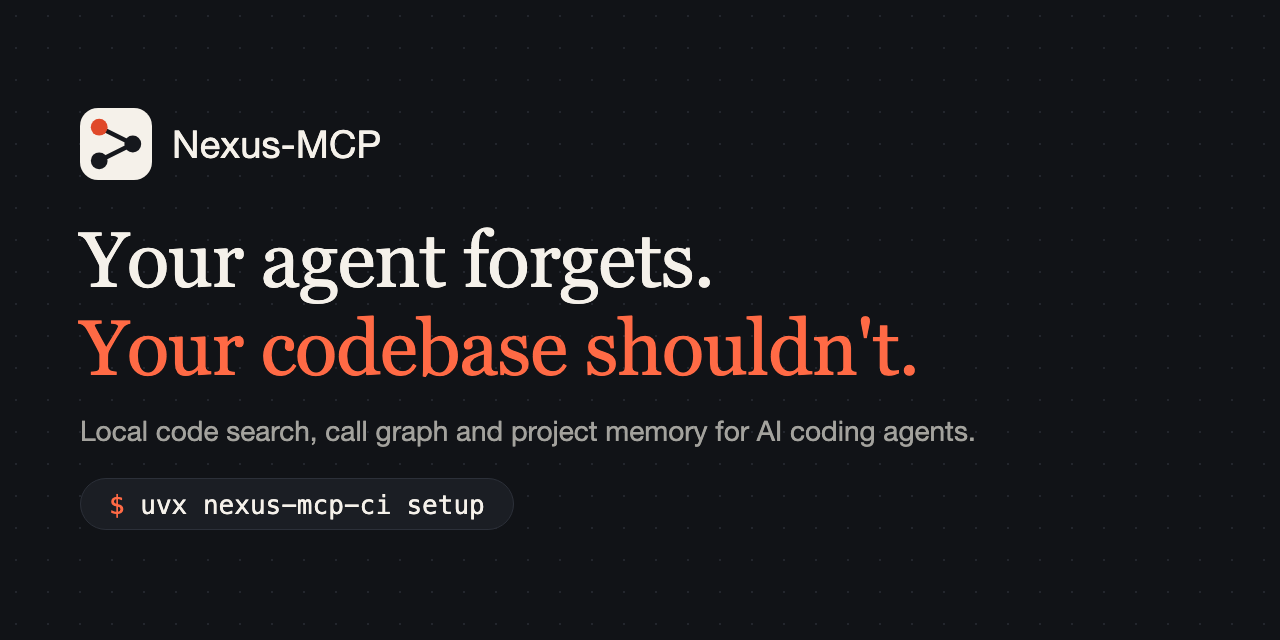
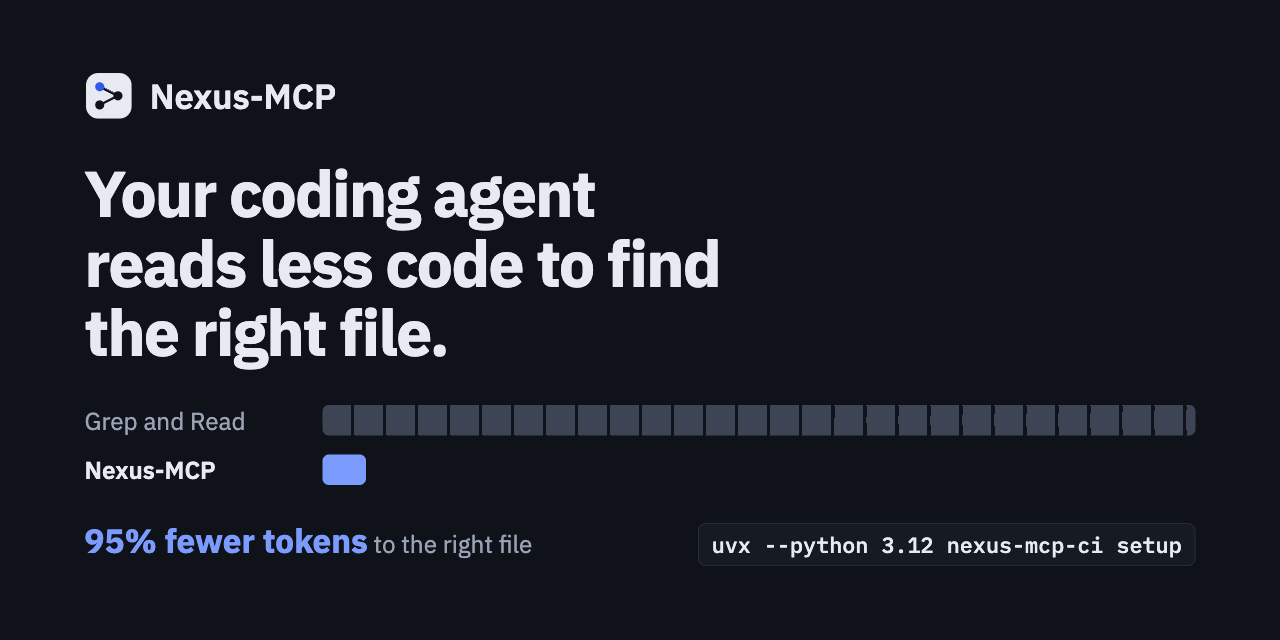
docs: one tagline everywhere
"Your coding agent reads less code to find the right file." replaces the
memory-first texts in the package description, the MCP Registry, Glama,
Context7, the Gemini, Claude Desktop, Claude Code and Cursor manifests,
CITATION.cff, llms.txt, llms-install.md and the submission texts.

The "27% to 49% fewer tokens" claim summed 18 runs; the README and the site
publish medians per task. Every listing now quotes the published numbers.
site/og.png and site/social-preview.png show the new tagline and the trace.

diff --git a/site/index.html b/site/index.html
@@ -16,7 +16,7 @@
   <meta property="og:image" content="https://jaggernaut007.github.io/nexus-mcp/og.png">
   <meta property="og:image:width" content="1200">
   <meta property="og:image:height" content="630">
-  <meta property="og:image:alt" content="Nexus-MCP logo and tagline">
+  <meta property="og:image:alt" content="Nexus-MCP: your coding agent reads less code to find the right file. 95% fewer tokens to the right file.">
   <meta name="twitter:card" content="summary_large_image">
   <meta name="twitter:title" content="Nexus-MCP: code search that cuts coding-agent tokens">
   <meta name="twitter:description" content="Your coding agent reads less code to find the right file. Local, no API keys, MIT.">

diff --git a/src/nexus_mcp/__init__.py b/src/nexus_mcp/__init__.py
@@ -1,3 +1,3 @@
-"""Nexus-MCP: Unified MCP server with hybrid search, code graph analysis, and semantic memory."""
+"""Nexus-MCP: local MCP server that cuts coding-agent tokens with hybrid search and a code graph."""
 
 __version__ = "2.4.5"

diff --git a/docs/SUBMISSIONS.md b/docs/SUBMISSIONS.md
@@ -22,17 +22,20 @@ GitHub release. Every `uvx` route runs `uvx --python 3.12 nexus-mcp-ci==2.4.5`. 
 | mcpservers.org | listed 2026-11-08: `https://mcpservers.org/servers/glama-ai-mcp-servers-jaggernaut007-nexus-mcp` |
 | mcp.so | skipped: a listing costs money |
 
-## One-line blurb
+## Tagline
 
-Local code search and call graph for AI coding agents, in 10 languages. Runs on your machine,
-needs no API key, and makes no network call of its own. MIT license.
+Your coding agent reads less code to find the right file.
+
+## One-line blurb (100 characters or less, as in `server.json`)
+
+Local code search for coding agents: find the right file with far fewer tokens.
 
 ## Short description (about 300 characters)
 
-Nexus-MCP is a local MCP server that gives an AI coding agent hybrid code search, a static call
-graph and the code of any symbol. The agent reads fewer files, so it uses fewer tokens. Call
-graphs for 10 languages. It runs on your machine. No API key and no telemetry. Install with one
-command: `uvx --python 3.12 nexus-mcp-ci setup`.
+Nexus-MCP is a local MCP server for coding agents. Hybrid code search and a call graph for 10
+languages give the agent the right code in one call, so it reads less: 95% fewer tokens to reach
+the right file (median of 10 open-source repos). No API key, no telemetry, MIT. Install:
+`uvx --python 3.12 nexus-mcp-ci setup`.
 
 ## What it does (for a longer form)
 
@@ -49,27 +52,23 @@ command: `uvx --python 3.12 nexus-mcp-ci setup`.
 - **Fresh index:** a file watcher reindexes after each edit. A new session attaches the last
   index by itself.
 
-## Results to quote (2.4.1)
+## Results to quote
 
-Live benchmark: Claude Code (`claude -p`), Claude Sonnet at medium effort, 6 tasks × 3 runs per
-project. Nexus-MCP is compared with the built-in Grep and Read tools. Source: `CHANGELOG.md`,
-section 2.4.1.
+Quote only the numbers of the README results block. It is generated from
+`benchmarks/published/results.json` (one row per repo, the latest run), so every listing says
+the same thing. Do not quote a sum of runs: the published numbers are medians per task.
 
-| Project | Tokens, sum of 18 runs | Cost | Correct answers |
-|---|---|---|---|
-| Home Assistant (about 26,000 Python files) | 49% fewer | 32% lower | 18 of 18 (Grep 17) |
-| Django | 27% fewer | 27% lower | 17 of 18 (Grep 16) |
-
-Release 2.4.0, median tokens per task: 25% fewer than Grep on Vite (TypeScript) and 26% fewer
-on webpack (JavaScript), with 6 of 6 correct on both.
+- 95% fewer tokens to reach the right file, median of 10 open-source repos in 10 languages
+  (offline check, no LLM).
+- About 9× faster search than Grep and Read, median.
+- Live Claude Code runs on 11 repos: cost per task lower on 8 of 11, with 64 of 66 tasks
+  correct against 61 of 66.
 
 Give these limits with the numbers:
-- The Grep totals change much from run to run, so the token gaps are less certain than the
-  accuracy results.
-- On Django, Nexus-MCP used fewer tokens on 2 of the 6 tasks. The win comes from the large
-  impact tasks.
-- The README results table is older (version 2.1.0). Do not mix its numbers with the numbers
-  above.
+- C (redis) and Rust (tokio) used more tokens per task than Grep and Read, on the older 2.2.2
+  build. Say so when you quote a live number.
+- The same code can vary by about 20% in cost with 3 runs per task.
+- Benchmarks page: https://jaggernaut007.github.io/nexus-mcp/benchmarks.html
 
 ## Links to give
 

diff --git a/docs/research/OSS-ADOPTION.md b/docs/research/OSS-ADOPTION.md
@@ -82,8 +82,9 @@ These need the owner's accounts or judgement. They are not done.
    from 2.2.2. A win or an honest loss on the current build removes the "not there yet" line.
 2. **Record a 20-second demo** (a GIF or a short video): one question in Claude Code, with and
    without Nexus-MCP, and the token count at the end. Put it under the README install block.
-3. **Replace `site/og.png`** and the GitHub social preview. Both still carry the old memory
-   tagline. Use the hero trace and "95% fewer tokens to the right file".
+3. **Upload the GitHub social preview.** `site/social-preview.png` (1280x640) has the new
+   tagline since 2026-11-08 (`site/og.png` too). GitHub has no API for it: upload it under
+   Settings, General, Social preview.
 4. **Show HN** when the C and Rust rerun is in. Title idea: "Show HN: Nexus-MCP, a local MCP
    server that cuts coding-agent tokens (benchmarks on 12 repos)". Stay in the comments.
 5. **A technical post** on how the benchmark works and where Nexus-MCP loses. Post it to the

diff --git a/docs/ARCHITECTURE.md b/docs/ARCHITECTURE.md
@@ -1,6 +1,6 @@
 # Architecture
 
-Nexus-MCP is a unified Model Context Protocol (MCP) server that combines vector search, full-text search, code graph analysis, and semantic memory into a single process. It is designed to run locally with a small memory footprint (see docs/MEMORY.md for measured numbers).
+Nexus-MCP is a local Model Context Protocol (MCP) server that lets a coding agent read less code to find the right file. It combines vector search, full-text search, code graph analysis and an opt-in semantic memory in a single process. It is designed to run locally with a small memory footprint (see docs/MEMORY.md for measured numbers).
 
 Nexus-MCP consolidates two predecessor projects into a single server ([ADR-001](adr/ADR-001-single-mcp-consolidation.md)):
 - **CodeGrok MCP** (by rdondeti / Ravitez Dondeti, MIT license) — Contributed the symbol extraction pipeline, embedding service, parallel indexing, core data models, and memory retrieval system.

diff --git a/CHANGELOG.md b/CHANGELOG.md
@@ -20,6 +20,12 @@ All notable changes to this project will be documented in this file.
   checklist). The technology table moved to `docs/ARCHITECTURE.md`.
 - North-star gate: not applicable. No code of the server changed, so token use and hit@1 do
   not change.
+- One tagline everywhere: "Your coding agent reads less code to find the right file." It is in
+  the PyPI description, `server.json`, `glama.json`, `context7.json`, the Gemini, Claude
+  Desktop, Claude Code and Cursor manifests, `CITATION.cff`, `llms.txt` and
+  `docs/SUBMISSIONS.md`. The old "27% to 49% fewer tokens" claim (a sum of 18 runs) is
+  replaced by the published medians. New `site/og.png` and `site/social-preview.png`.
+  Registry and PyPI texts change at the next release.
 
 ## [2.4.5] - 2026-11-08
 

diff --git a/CLAUDE.md b/CLAUDE.md
@@ -1,6 +1,6 @@
 # Nexus-MCP
 
-Unified MCP server: hybrid search + code graph + semantic memory. Memory (measured, docs/MEMORY.md): ~90MB idle, ~460MB with the embedding model loaded, ~500MB while indexing a small project. The old <350MB target is not met once the model is loaded.
+Local MCP server that cuts coding-agent tokens: the agent reads less code to find the right file. Hybrid search + code graph, with an opt-in memory. Memory (measured, docs/MEMORY.md): ~90MB idle, ~460MB with the embedding model loaded, ~500MB while indexing a small project. The old <350MB target is not met once the model is loaded.
 
 ## North star
 

diff --git a/llms-install.md b/llms-install.md
@@ -1,7 +1,7 @@
 # Install Nexus-MCP (instructions for an AI agent)
 
-Nexus-MCP is a local code-intelligence MCP server. It gives you search, symbol lookup and a
-call graph. The server name in the client config is `nexus-mcp`. The PyPI package is
+Nexus-MCP is a local MCP server that lets you read less code to find the right file. It gives
+you search, symbol lookup and a call graph. The server name in the client config is `nexus-mcp`. The PyPI package is
 `nexus-mcp-ci`. Install it for the client that you run in. Follow these steps.
 
 1. Check whether the tools already work. If you can call a `search` tool of the `nexus-mcp`

diff --git a/docs/PROJECT_INFO.md b/docs/PROJECT_INFO.md
@@ -1,7 +1,7 @@
 # Nexus-MCP Project Information
 
 ## Overview
-Nexus-MCP is a unified code intelligence MCP (Model Context Protocol) server that consolidates two existing servers:
+Nexus-MCP is a local MCP (Model Context Protocol) server that lets a coding agent read less code to find the right file. It consolidates two earlier servers:
 - **CodeGrok** — semantic vector search + memory layer
 - **code-graph-mcp** — structural AST analysis + call graphs
 - **Live Grep** — 100% coverage fallback via ripgrep/grep
